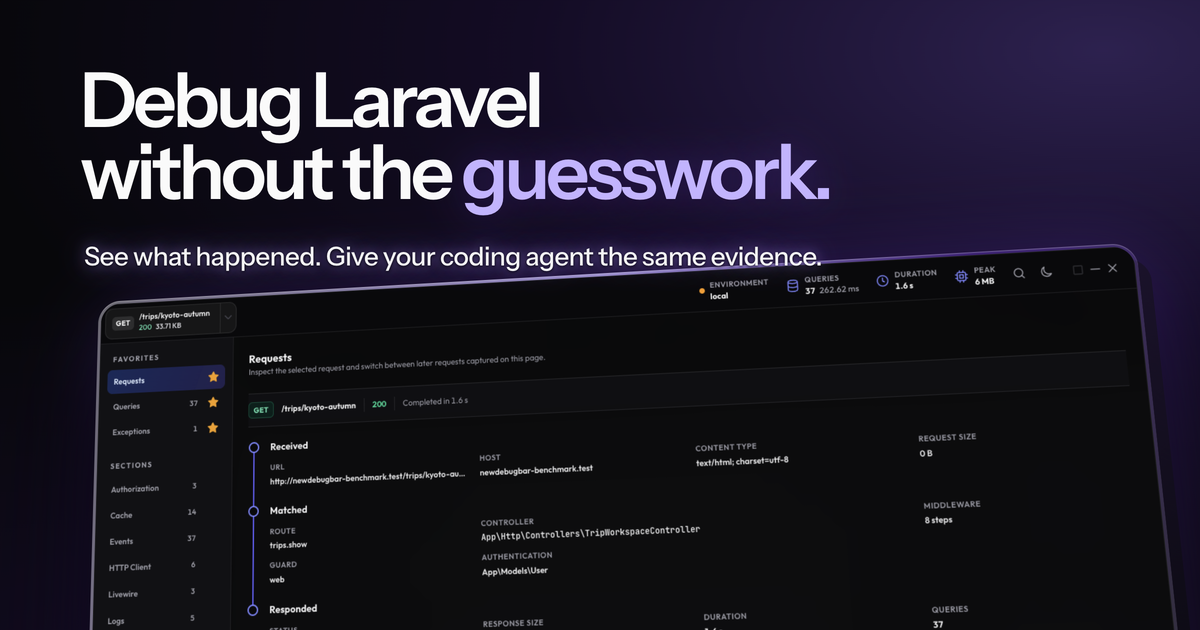
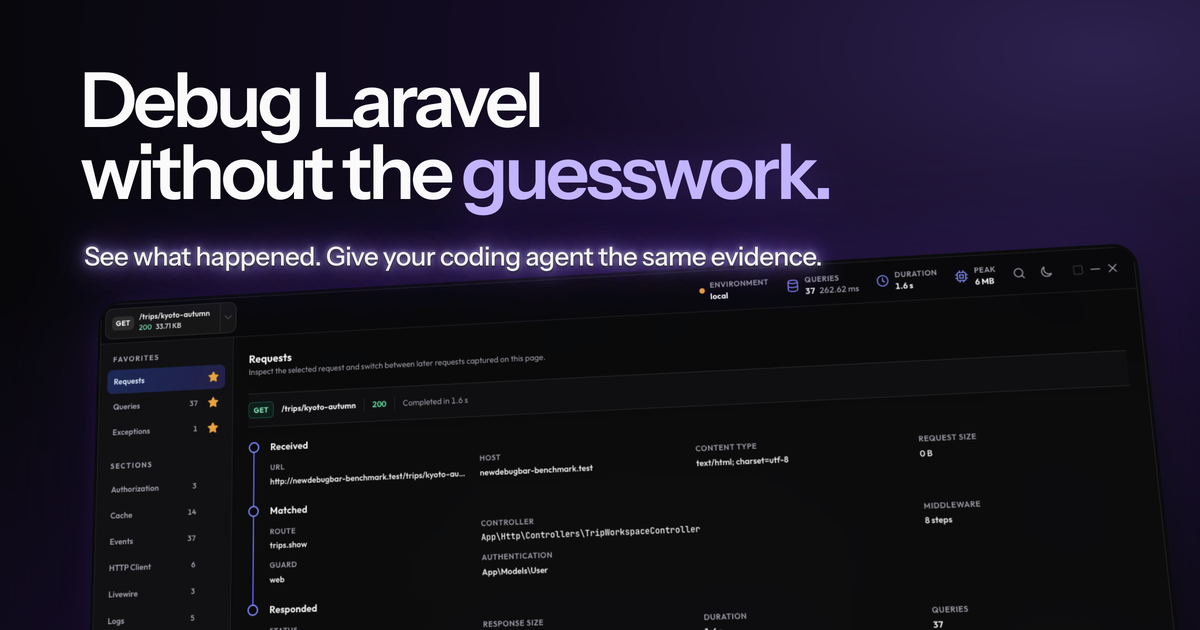
Rebalance social preview glows
- Strengthen the description glow with layered violet light
- Replace the hard screenshot rim with a soft blurred halo
- Preserve all copy, placement, perspective, and image geometry
- Refresh the exported social image

diff --git a/resources/views/social/og-image.blade.php b/resources/views/social/og-image.blade.php
@@ -38,15 +38,15 @@
                 without the <span class="text-violet-300 [text-shadow:0_0_38px_rgb(124_58_237_/_30%)]">guesswork.</span>
             </h1>
 
-            <p class="absolute top-[239px] left-[84px] z-30 m-0 w-[1000px] text-[26px] leading-[1.35] [font-weight:450] tracking-[-0.018em] text-zinc-100 [text-shadow:0_1px_3px_rgb(0_0_0_/_80%),0_0_12px_rgb(167_139_250_/_60%),0_0_30px_rgb(139_92_246_/_42%)]">
+            <p class="absolute top-[239px] left-[84px] z-30 m-0 w-[1000px] text-[26px] leading-[1.35] [font-weight:450] tracking-[-0.018em] text-zinc-100 [text-shadow:0_2px_3px_rgb(0_0_0_/_80%),0_0_5px_rgb(221_214_254_/_75%),0_0_14px_rgb(167_139_250_/_100%),0_0_30px_rgb(139_92_246_/_85%),0_0_56px_rgb(124_58_237_/_60%)]">
                 See what happened. Give your coding agent the same evidence.
             </p>
 
             <div class="absolute top-[270px] left-[72px] z-10 w-[1050px] [transform-origin:56%_0%] [transform-style:preserve-3d] [transform:perspective(1100px)_rotateX(8deg)_rotateY(-5deg)_rotateZ(-2.6deg)]">
-                <div class="absolute inset-0 translate-x-[11px] translate-y-[15px] rounded-[23px] bg-[linear-gradient(145deg,#5b21b6_0%,#211534_46%,#08080c_100%)] opacity-95 [box-shadow:-20px_52px_100px_rgb(0_0_0_/_88%),0_0_78px_rgb(124_58_237_/_38%)]" aria-hidden="true"></div>
+                <div class="absolute inset-0 translate-x-[11px] translate-y-[15px] rounded-[23px] bg-[linear-gradient(145deg,#5b21b6_0%,#211534_46%,#08080c_100%)] opacity-70 blur-[14px] [box-shadow:-20px_52px_100px_rgb(0_0_0_/_88%),0_0_96px_rgb(124_58_237_/_45%)]" aria-hidden="true"></div>
 
-                <div class="relative rounded-[23px] bg-[linear-gradient(110deg,rgb(255_255_255_/_38%),rgb(196_181_253_/_76%)_43%,rgb(124_58_237_/_30%)_72%,rgb(255_255_255_/_16%))] p-[3px] shadow-[inset_0_1px_rgb(255_255_255_/_22%)]">
-                    <div class="overflow-hidden rounded-[20px] bg-[#0b0b0e] shadow-[inset_0_1px_rgb(255_255_255_/_9%)]">
+                <div class="relative rounded-[23px] bg-[#0b0b0e] p-[3px]">
+                    <div class="overflow-hidden rounded-[20px] bg-[#0b0b0e]">
                         <img
                             class="block h-auto w-full"
                             src="{{ Vite::asset('resources/images/screenshots/request-inspector-desktop-dark.png') }}"
